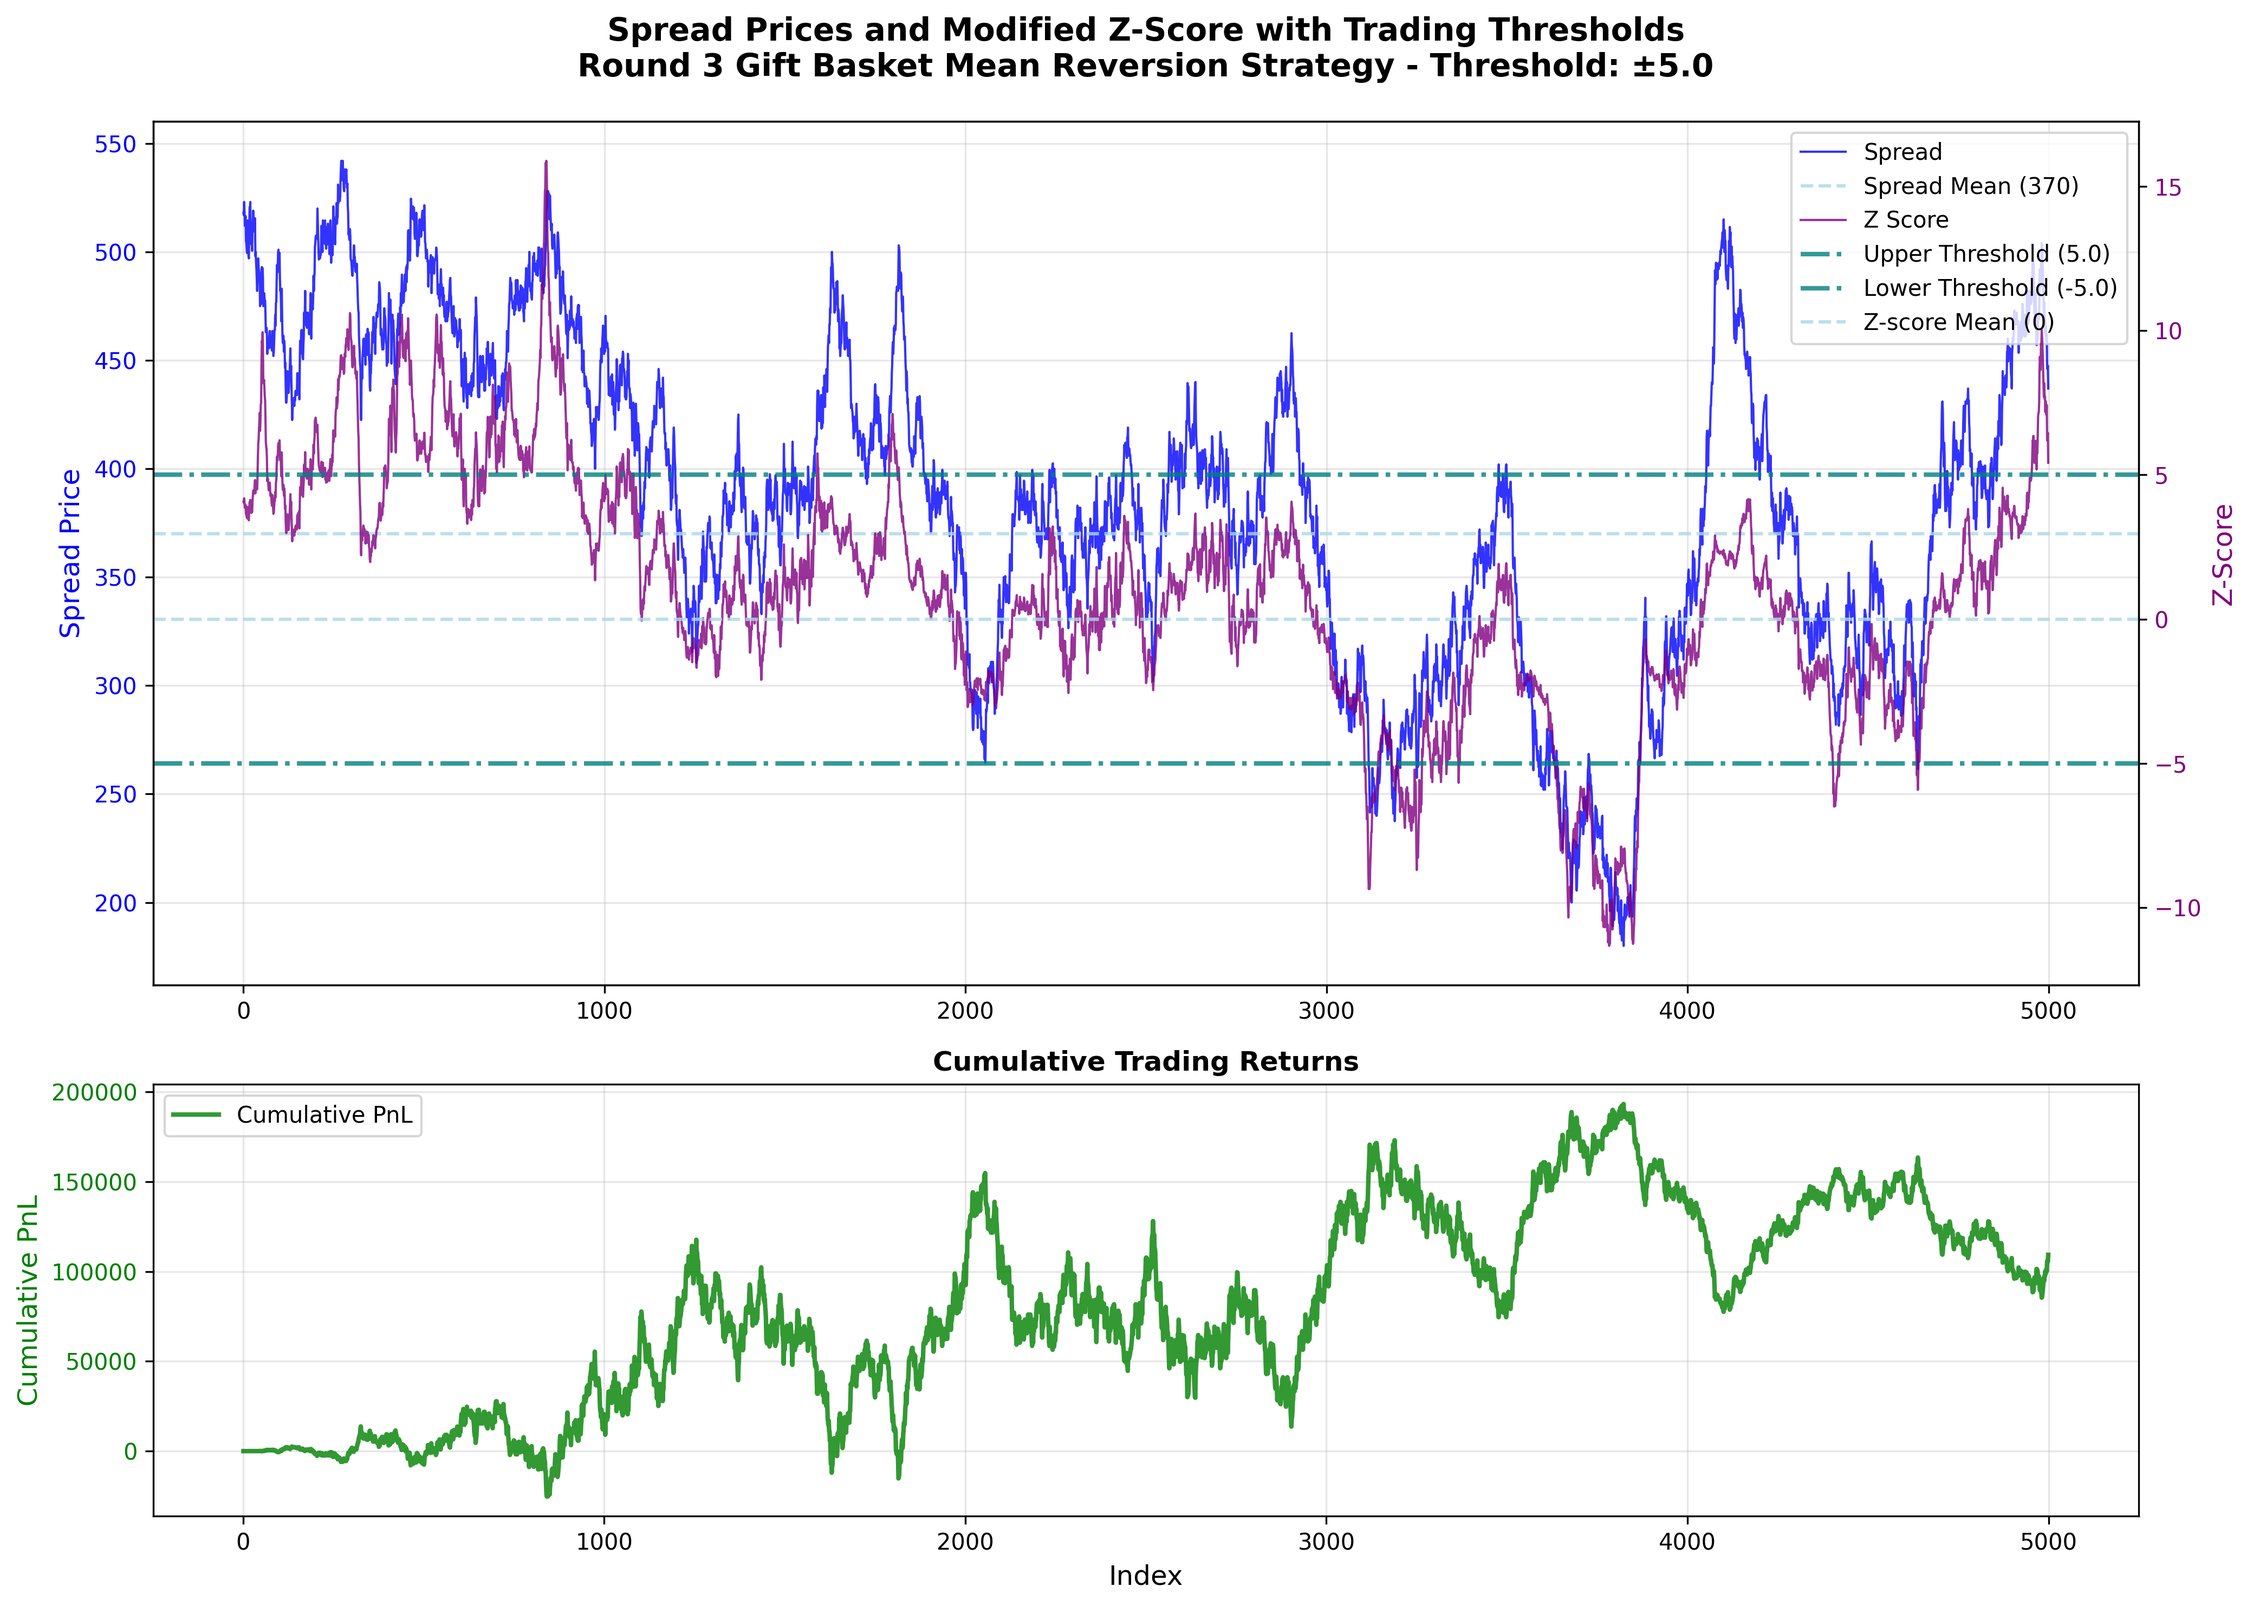
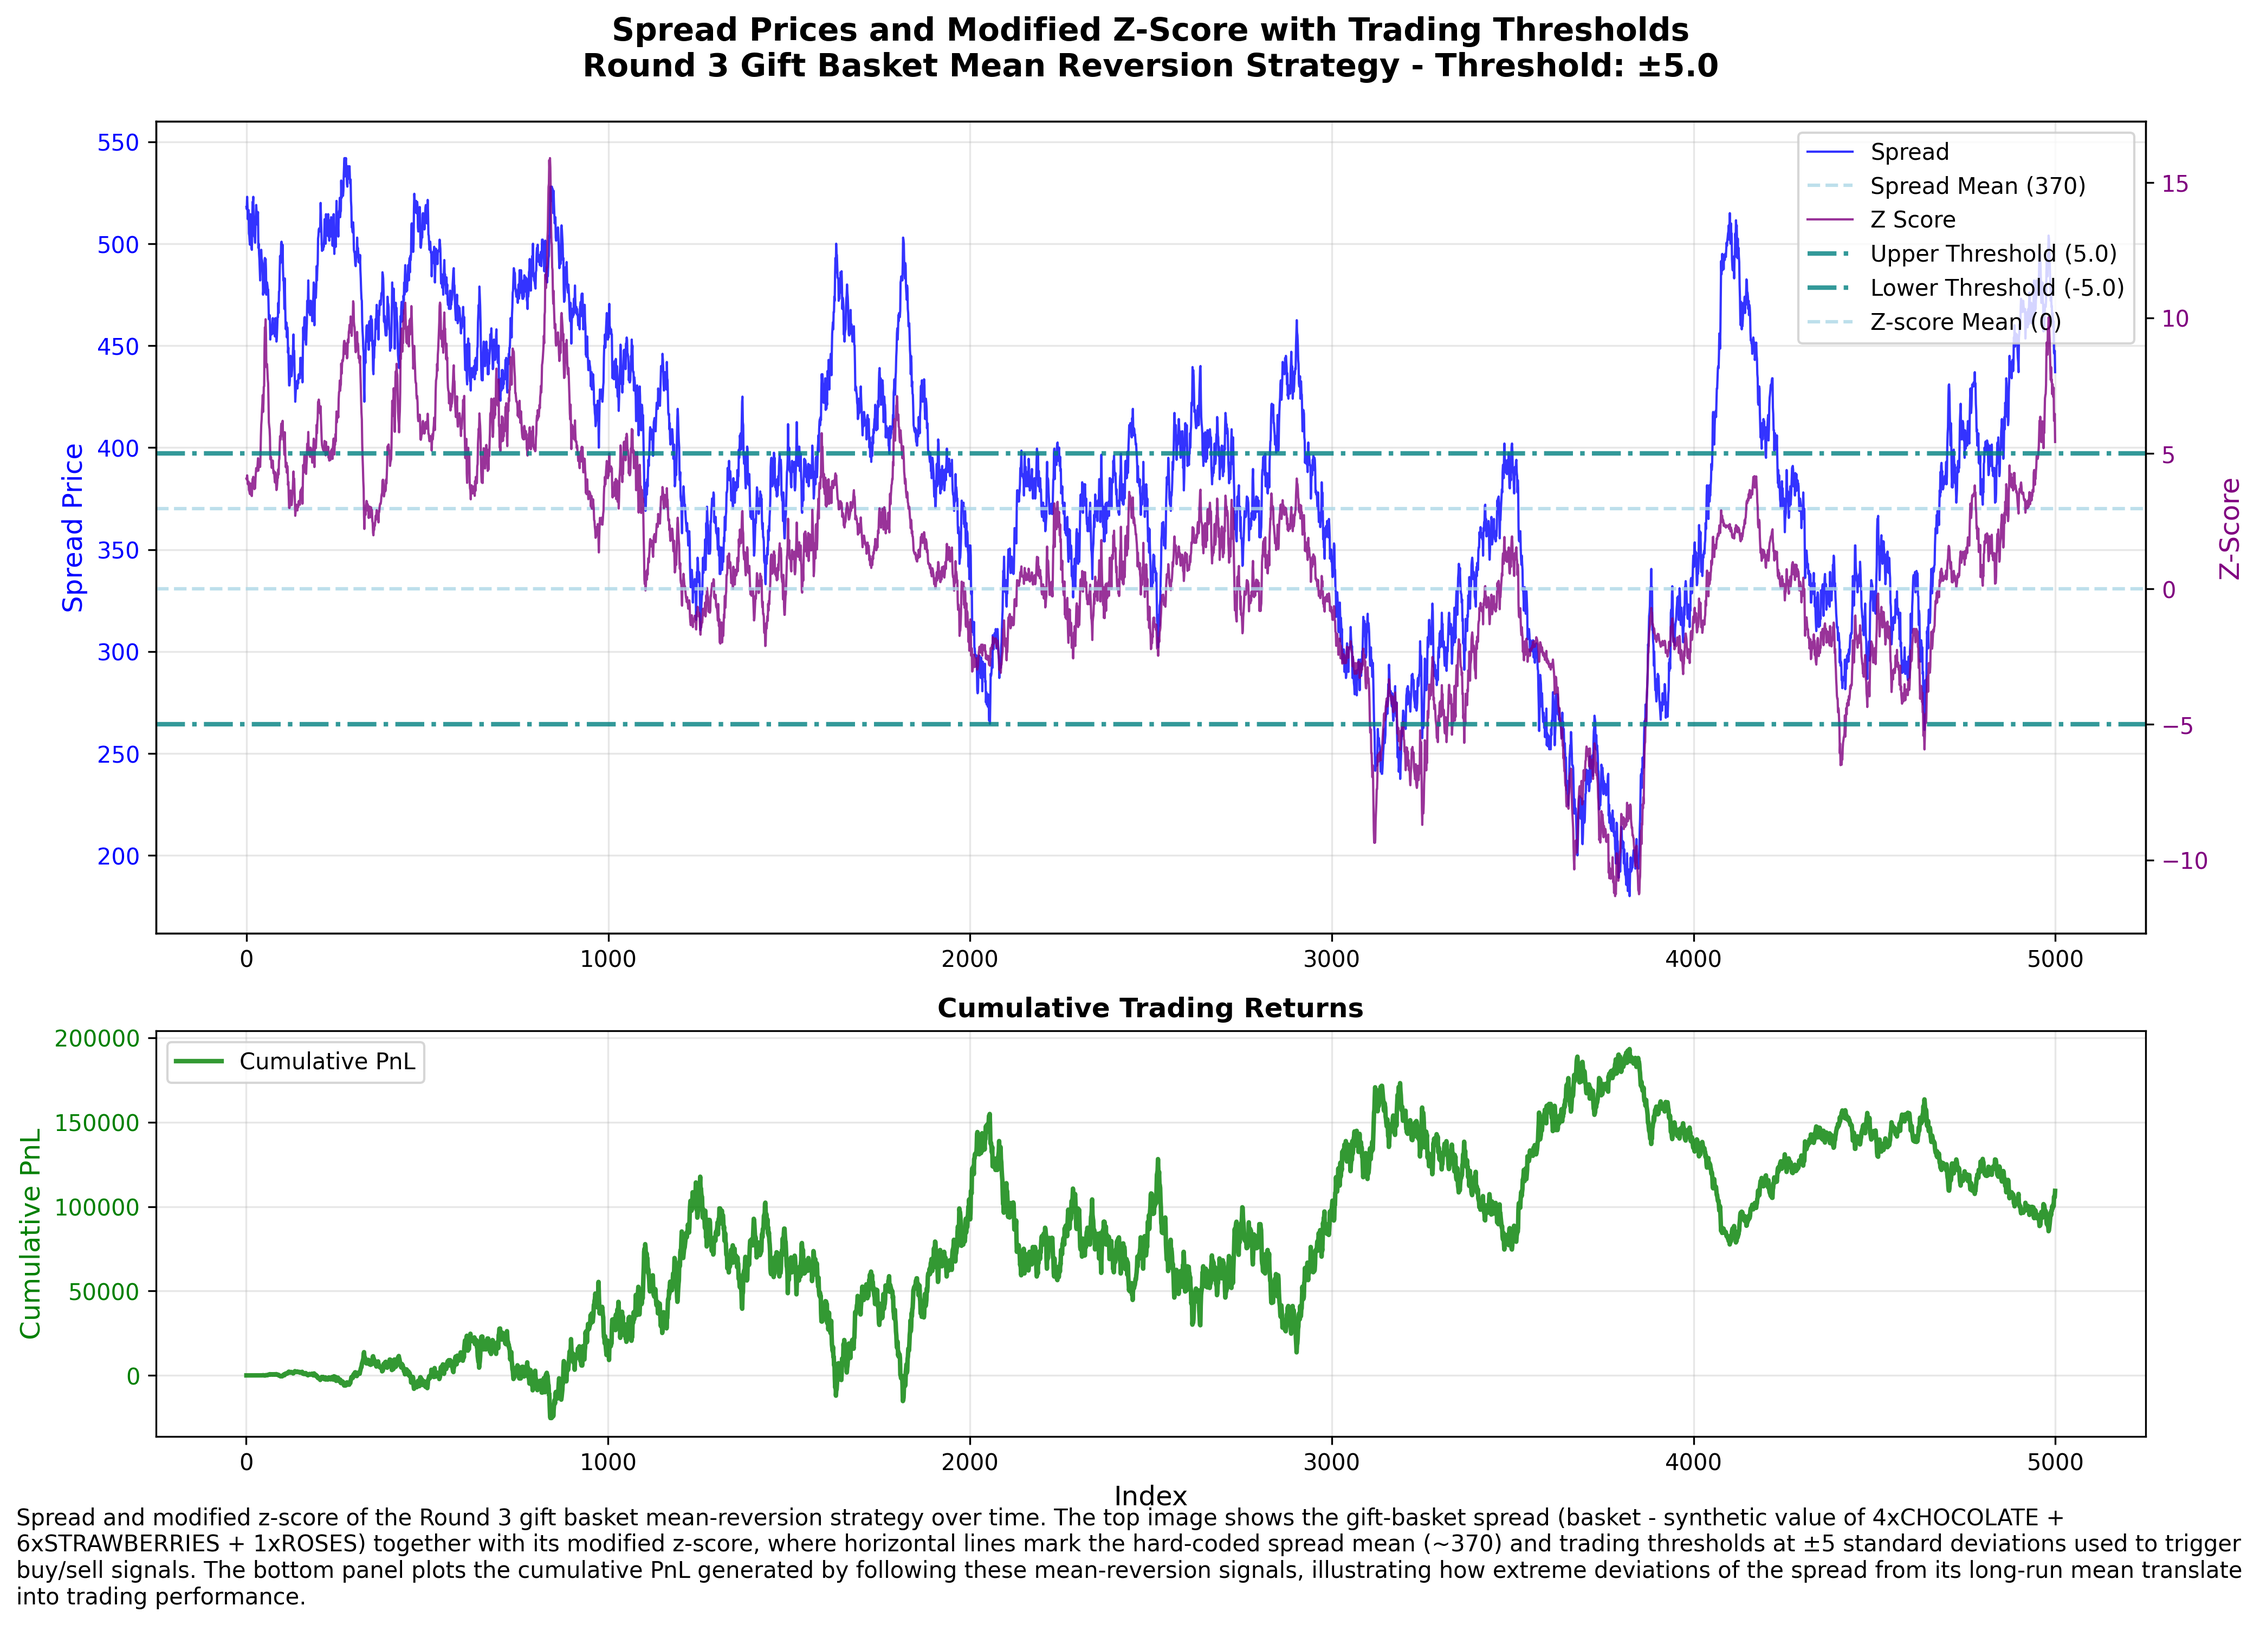
added caption and moved file to another folder

diff --git a/round3-vis/spread_zscore_clean.py b/round3-vis/spread_zscore_clean.py
@@ -127,10 +127,16 @@ def create_clean_visualization(df, z_score_threshold=5.0, start_idx=5000, end_id
     ax2.grid(True, alpha=0.3)
     ax2.legend(loc='upper left', fontsize=10)
     ax2.set_title('Cumulative Trading Returns', fontsize=12, fontweight='bold')
+    fig.text(0.01,0.01,
+    "Spread and modified z-score of the Round 3 gift basket mean-reversion strategy over time. " \
+    "The top image shows the gift-basket spread (basket - synthetic value of 4xCHOCOLATE + 6xSTRAWBERRIES + 1xROSES) together with its modified z-score, " \
+    "where horizontal lines mark the hard-coded spread mean (~370) and trading thresholds at ±5 standard deviations used to trigger buy/sell signals. " \
+    "The bottom panel plots the cumulative PnL generated by following these mean-reversion signals, illustrating how extreme deviations of the spread from its long-run mean translate into trading performance.",
+    wrap=True
+    )
     
     # Adjust layout
-    plt.tight_layout()
-    
+    plt.tight_layout(rect=[0, 0.05, 1, 1])    
     return fig, df_filtered
 
 def print_analysis_summary(df_filtered, z_score_threshold):
@@ -196,7 +202,7 @@ def main():
     Main function to run the clean visualization
     """
     # File path
-    file_path = '/home/mallet/code/data-vis/data-vis-project/imc-data/round3/data/prices_round_3_day_0.csv'
+    file_path = './data-vis-project/imc-data/round3/data/prices_round_3_day_0.csv'
     
     print("Loading and processing data...")
     df = load_and_process_data(file_path)
@@ -208,7 +214,7 @@ def main():
     fig, df_filtered = create_clean_visualization(df, z_score_threshold=5.0, start_idx=5000, end_idx=10000)
     
     # Save the plot
-    output_path = '/home/mallet/code/data-vis/data-vis-project/round3-vis/spread_zscore_clean.png'
+    output_path = './data-vis-project/round3-vis/spread_zscore_clean.png'
     fig.savefig(output_path, dpi=300, bbox_inches='tight')
     print(f"Clean visualization saved to: {output_path}")
     
